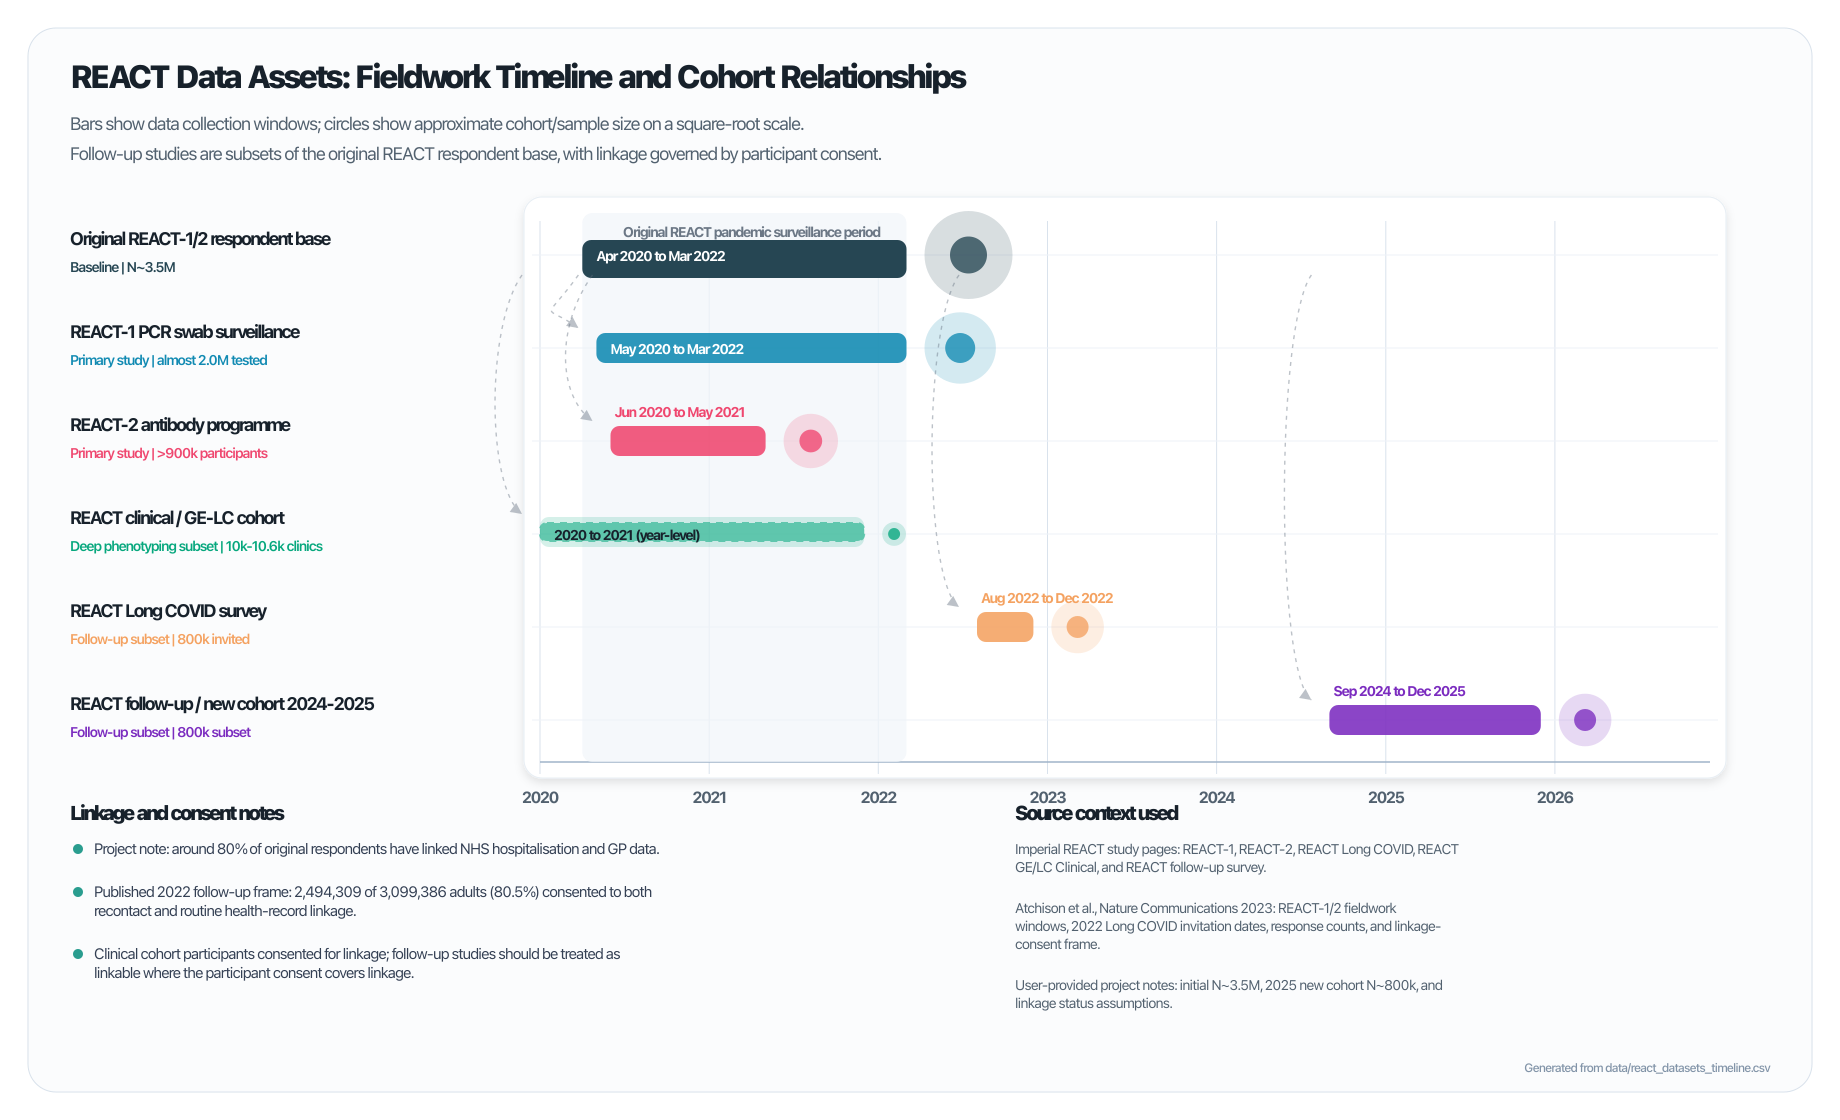
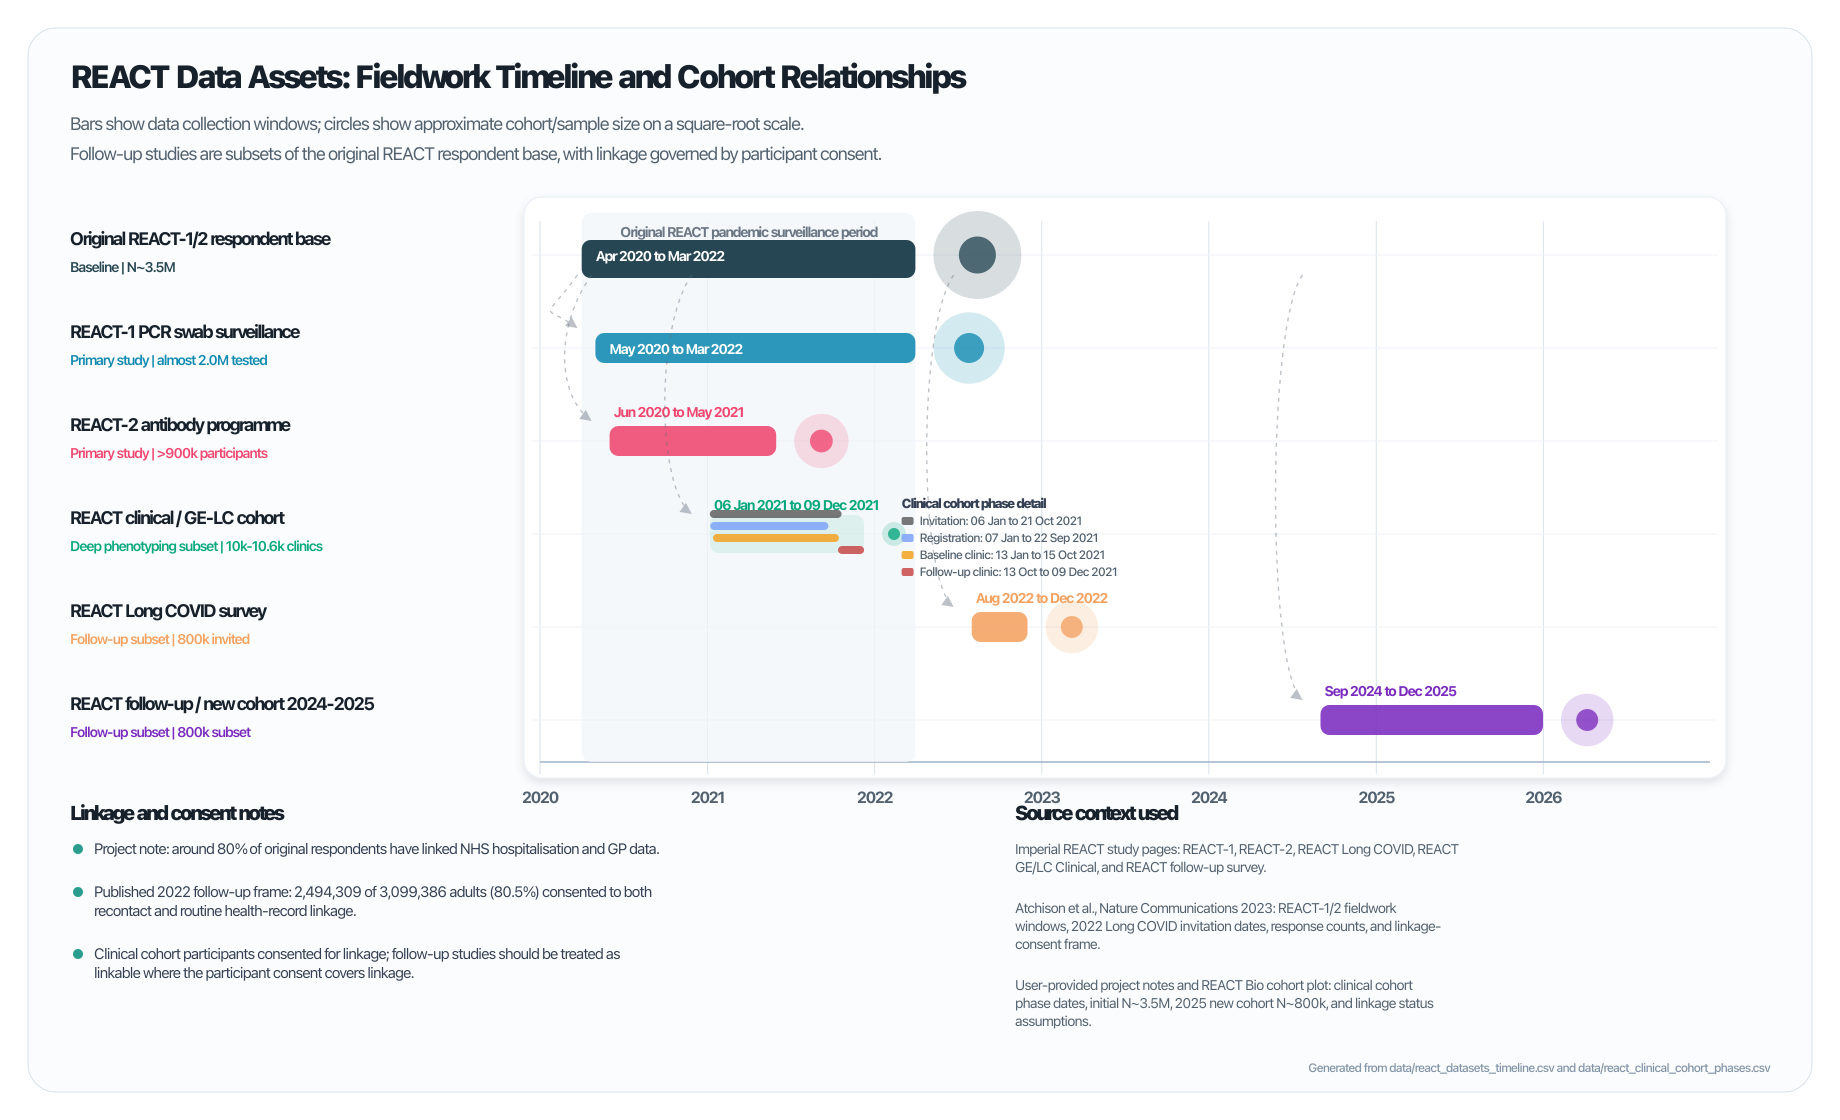
Update clinical cohort timeline dates

diff --git a/scripts/create_react_timeline.py b/scripts/create_react_timeline.py
@@ -14,6 +14,7 @@ from textwrap import wrap
 
 ROOT = Path(__file__).resolve().parents[1]
 DATA_FILE = ROOT / "data" / "react_datasets_timeline.csv"
+CLINICAL_PHASE_FILE = ROOT / "data" / "react_clinical_cohort_phases.csv"
 OUT_FILE = ROOT / "assets" / "react-datasets-timeline.svg"
 
 
@@ -30,6 +31,15 @@ class Study:
     relationship: str
     details: str
     source_note: str
+
+
+@dataclass
+class ClinicalPhase:
+    phase: str
+    start: date
+    end: date
+    color: str
+    details: str
 
 
 def parse_date(value: str) -> date:
@@ -52,6 +62,21 @@ def load_studies() -> list[Study]:
                 relationship=row["relationship"],
                 details=row["details"],
                 source_note=row["source_note"],
+            )
+            for row in reader
+        ]
+
+
+def load_clinical_phases() -> list[ClinicalPhase]:
+    with CLINICAL_PHASE_FILE.open(newline="", encoding="utf-8") as handle:
+        reader = csv.DictReader(handle)
+        return [
+            ClinicalPhase(
+                phase=row["phase"],
+                start=parse_date(row["start"]),
+                end=parse_date(row["end"]),
+                color=row["color"],
+                details=row["details"],
             )
             for row in reader
         ]
@@ -93,7 +118,7 @@ def path(points: str, stroke: str, width: float = 1.5, fill: str = "none",
     )
 
 
-def render_svg(studies: list[Study]) -> str:
+def render_svg(studies: list[Study], clinical_phases: list[ClinicalPhase]) -> str:
     width, height = 1840, 1120
     margin_left, margin_right = 540, 130
     plot_top, plot_bottom = 255, 720
@@ -102,10 +127,10 @@ def render_svg(studies: list[Study]) -> str:
 
     axis_start = date(2020, 1, 1)
     axis_end = date(2026, 12, 31)
-    total_months = month_index(axis_end) - month_index(axis_start) + 1
+    total_days = (axis_end - axis_start).days
 
     def x_for(day: date) -> float:
-        return plot_left + (month_index(day) - month_index(axis_start)) / (total_months - 1) * plot_width
+        return plot_left + (day - axis_start).days / total_days * plot_width
 
     rows = len(studies)
     row_gap = (plot_bottom - plot_top) / (rows - 1)
@@ -156,7 +181,15 @@ def render_svg(studies: list[Study]) -> str:
         bar_height = 38 if is_baseline else bar_h
 
         svg.append(path(f"M{plot_left - 8:.1f},{y:.1f} L{plot_right + 8:.1f},{y:.1f}", "#edf2f7", 1))
-        if study.precision == "year":
+        is_clinical = study.dataset.startswith("REACT clinical")
+
+        if is_clinical:
+            svg.append(rounded_rect(x0, bar_y - 4, max(12, x1 - x0), bar_height + 8, study.color, 9, opacity=0.10))
+            for phase_idx, phase in enumerate(clinical_phases):
+                phase_x0, phase_x1 = x_for(phase.start), x_for(phase.end)
+                phase_y = y - 24 + phase_idx * 12
+                svg.append(rounded_rect(phase_x0, phase_y, max(5, phase_x1 - phase_x0), 8, phase.color, 4, opacity=0.86))
+        elif study.precision == "year":
             svg.append(rounded_rect(x0, bar_y - 2, max(12, x1 - x0), bar_height, study.color, 9, opacity=0.17))
             svg.append(rounded_rect(x0, bar_y + 4, max(12, x1 - x0), bar_height - 12, study.color, 7, stroke=study.color, stroke_width=2, opacity=0.55, extra='stroke-dasharray="7 6"'))
         else:
@@ -173,10 +206,21 @@ def render_svg(studies: list[Study]) -> str:
         bar_label = f"{study.start.strftime('%b %Y')} to {study.end.strftime('%b %Y')}"
         if study.precision == "year":
             bar_label = f"{study.start.year} to {study.end.year} (year-level)"
+        elif study.precision == "day":
+            bar_label = f"{study.start.strftime('%d %b %Y')} to {study.end.strftime('%d %b %Y')}"
         if (x1 - x0) < 275:
             svg.append(text(x0 + 4, y - 24, bar_label, 14, 700, study.color))
         else:
             svg.append(text(x0 + 14, y + 6, bar_label, 14, 700, "#ffffff" if study.precision != "year" else "#17212b"))
+
+        if is_clinical:
+            legend_x = x_for(date(2022, 3, 1))
+            svg.append(text(legend_x, y - 26, "Clinical cohort phase detail", 13, 750, "#344054"))
+            for phase_idx, phase in enumerate(clinical_phases):
+                legend_y = y - 8 + phase_idx * 17
+                svg.append(rounded_rect(legend_x, legend_y - 9, 12, 8, phase.color, 2, opacity=0.86))
+                label = f"{phase.phase}: {phase.start.strftime('%d %b')} to {phase.end.strftime('%d %b %Y')}"
+                svg.append(text(legend_x + 18, legend_y - 1, label, 12, 500, "#52616f"))
 
         if study.relationship:
             # Show subset relationship back to the baseline row.
@@ -211,7 +255,7 @@ def render_svg(studies: list[Study]) -> str:
     sources = [
         "Imperial REACT study pages: REACT-1, REACT-2, REACT Long COVID, REACT GE/LC Clinical, and REACT follow-up survey.",
         "Atchison et al., Nature Communications 2023: REACT-1/2 fieldwork windows, 2022 Long COVID invitation dates, response counts, and linkage-consent frame.",
-        "User-provided project notes: initial N~3.5M, 2025 new cohort N~800k, and linkage status assumptions.",
+        "User-provided project notes and REACT Bio cohort plot: clinical cohort phase dates, initial N~3.5M, 2025 new cohort N~800k, and linkage status assumptions.",
     ]
     cursor_y = source_y + 34
     for source in sources:
@@ -220,14 +264,15 @@ def render_svg(studies: list[Study]) -> str:
             svg.append(text(source_x, cursor_y + line_no * 18, line, 14, 450, "#52616f"))
         cursor_y += 23 + len(wrapped) * 18
 
-    svg.append(text(width - 70, height - 48, "Generated from data/react_datasets_timeline.csv", 12, 500, "#8294a8", "end"))
+    svg.append(text(width - 70, height - 48, "Generated from data/react_datasets_timeline.csv and data/react_clinical_cohort_phases.csv", 12, 500, "#8294a8", "end"))
     svg.append("</svg>")
     return "\n".join(svg)
 
 
 def main() -> None:
     studies = load_studies()
-    OUT_FILE.write_text(render_svg(studies), encoding="utf-8")
+    clinical_phases = load_clinical_phases()
+    OUT_FILE.write_text(render_svg(studies, clinical_phases), encoding="utf-8")
     print(f"Wrote {OUT_FILE}")
 
 

diff --git a/README.md b/README.md
@@ -67,4 +67,4 @@ The enclave server has GPUs available. GPU access can be arranged for projects t
 
 ![Timeline of REACT data assets](assets/react-datasets-timeline.svg)
 
-The timeline is generated from [`data/react_datasets_timeline.csv`](data/react_datasets_timeline.csv) using [`scripts/create_react_timeline.py`](scripts/create_react_timeline.py).
+The timeline is generated from [`data/react_datasets_timeline.csv`](data/react_datasets_timeline.csv) and [`data/react_clinical_cohort_phases.csv`](data/react_clinical_cohort_phases.csv) using [`scripts/create_react_timeline.py`](scripts/create_react_timeline.py).